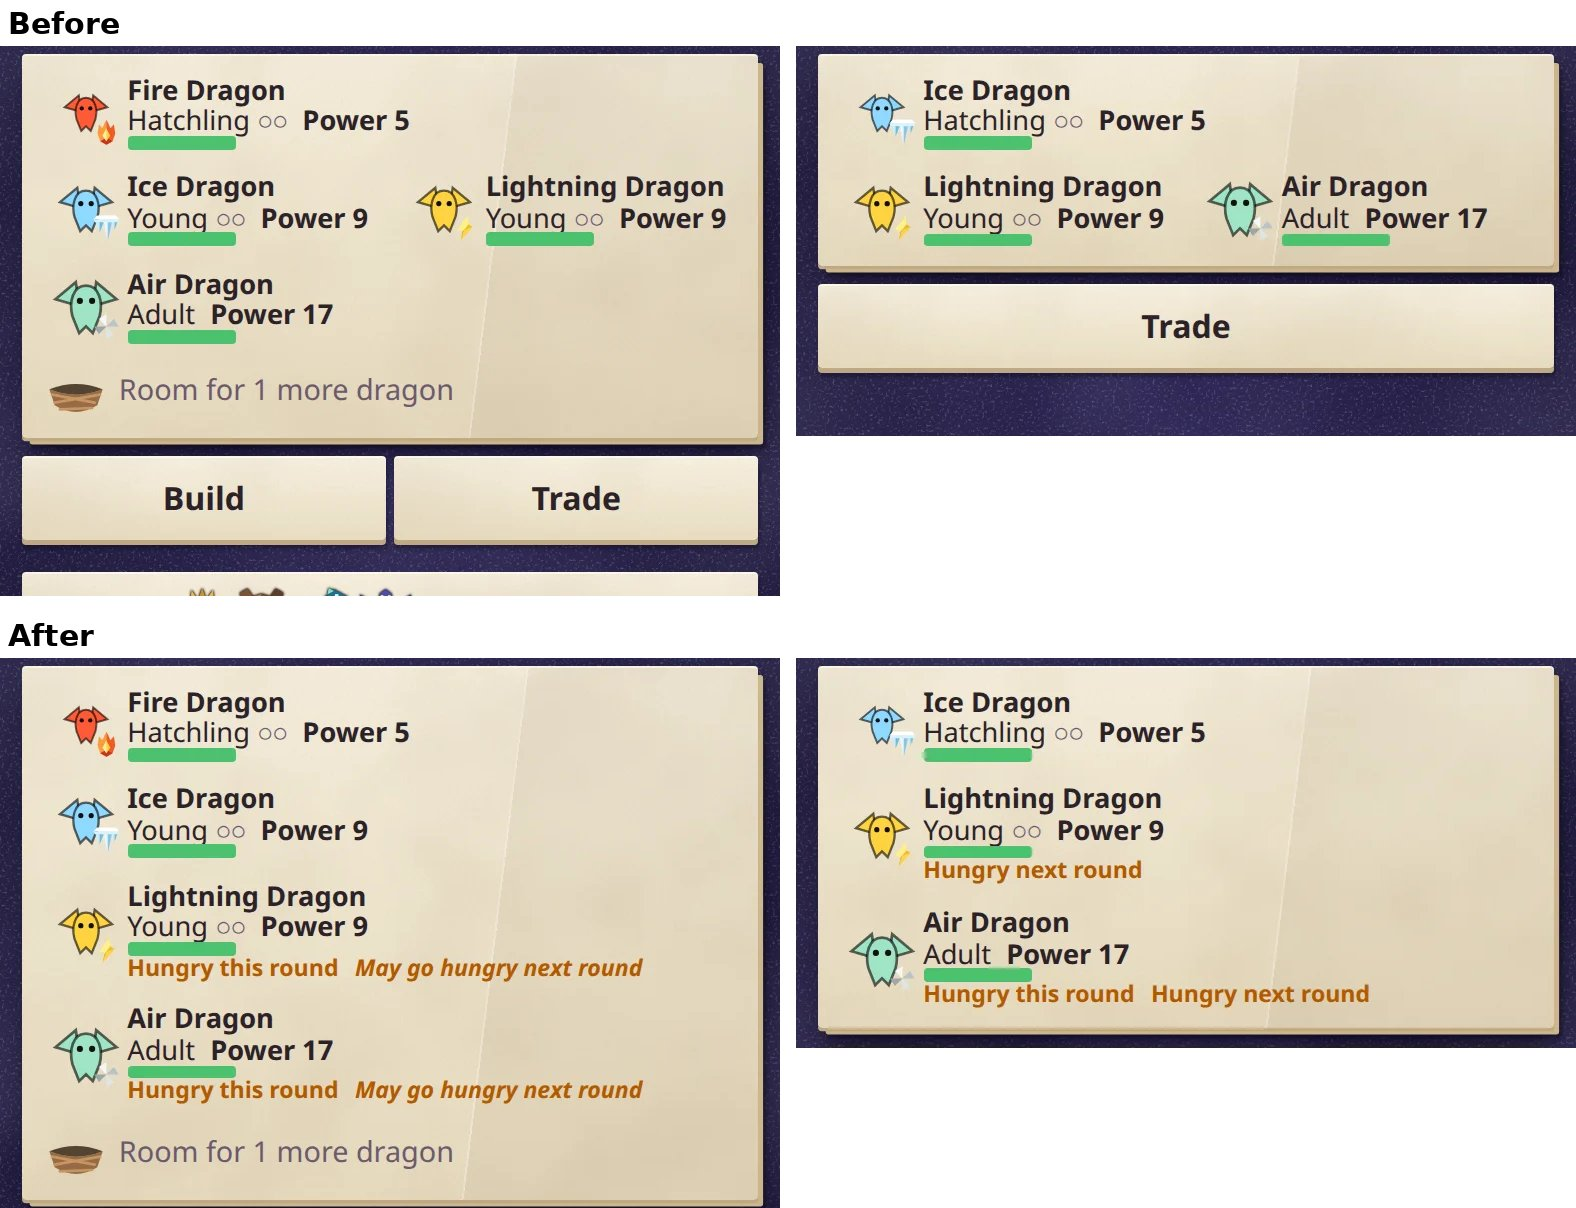
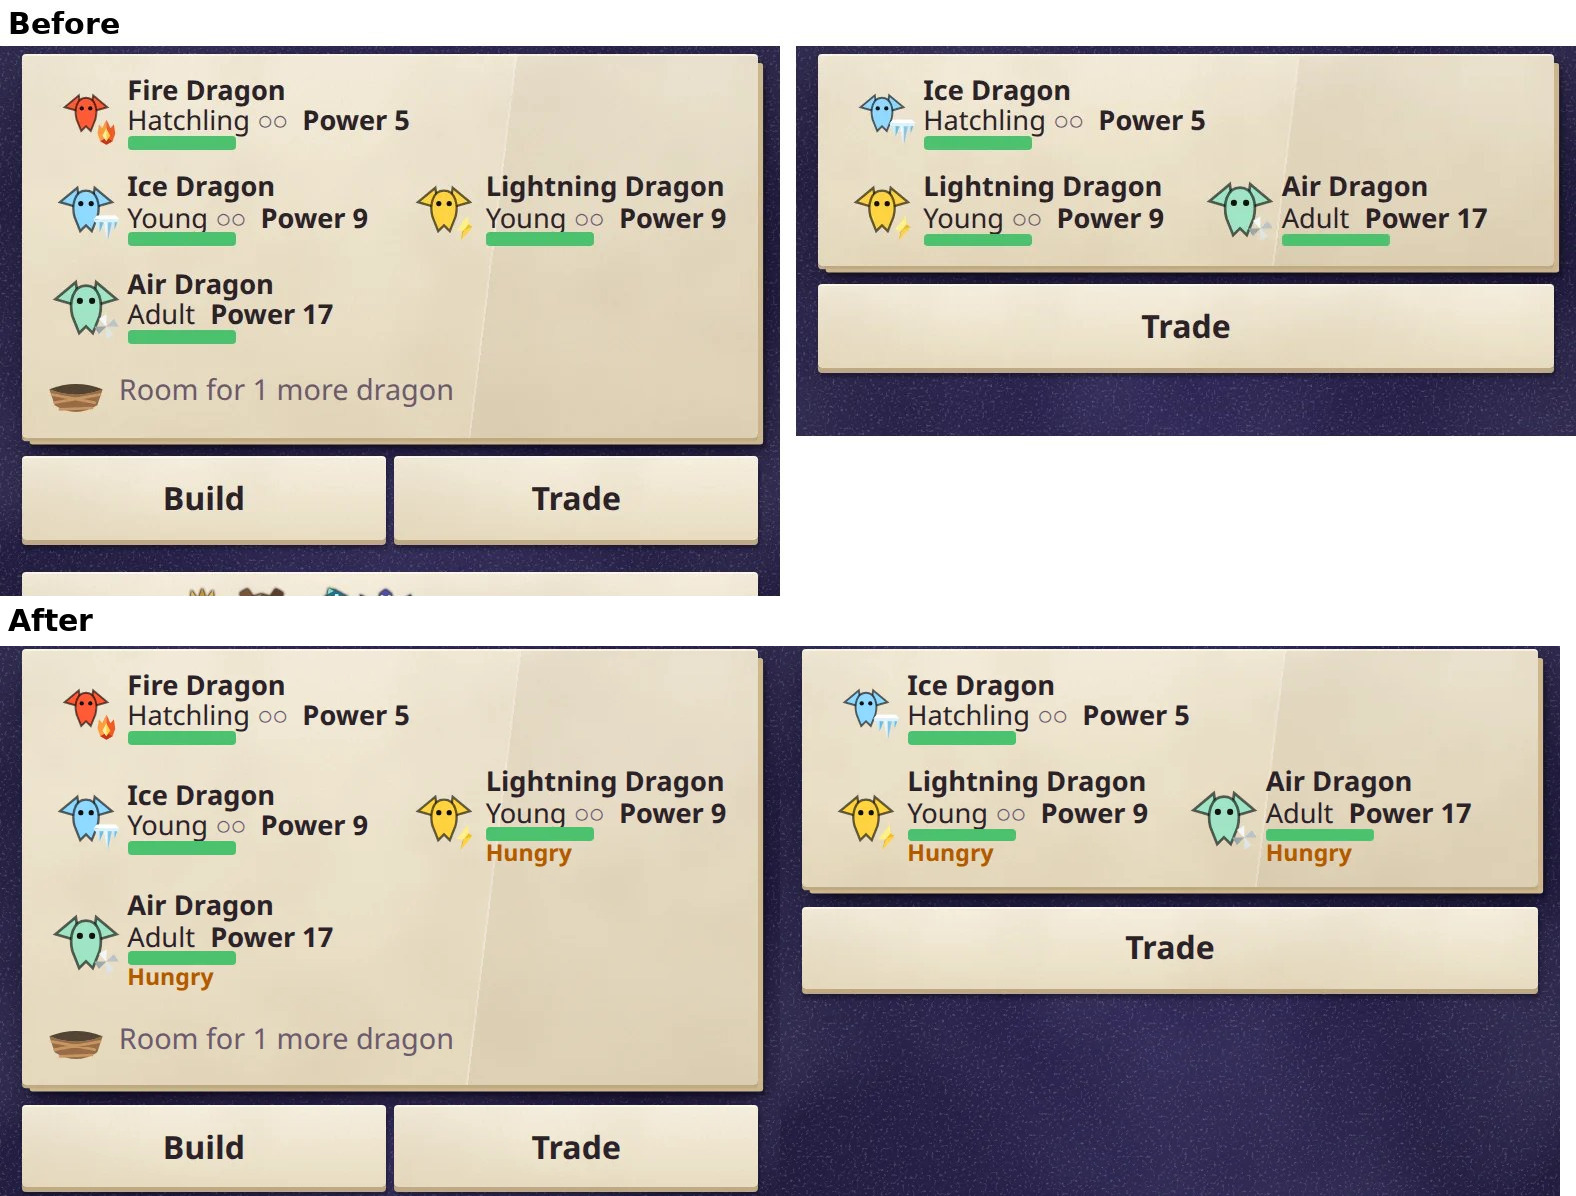
Hungry dragons: one tag, just "Hungry" (#362)
The user, reviewing #367: reduce the tags to just "Hungry". It shows when a
dragon went hungry this round (public) or, on its owner's phone, goes hungry
at the next production for sure. "May go hungry" is dropped: a tag claims
only what the rules make sure of.

Claude-Session: https://claude.ai/code/session_01MEmTqG6eNFrtQc3KbhsTSz

diff --git a/web/common.ts b/web/common.ts
@@ -376,16 +376,17 @@ export function dragonChip(d: DragonView, all: DragonView[], round: number, ahea
   return `<div class="dchip${d.status === 'out' ? ' out' : ''}" title="${esc(name)}">${dragonBadge(d, 34)}<div><b>${esc(name)}</b><span>${STAGE_LABEL[d.stage]} ${grow}${d.stage ? ` ${powerTag(d.power)}` : ''}</span>${state}${hunger ? `<span class="hunger">${hunger}</span>` : ''}</div></div>`;
 }
 
-// Whether a dragon eats (#362). "Hungry this round": it went hungry at this round's
-// production, so it didn't heal or grow; anyone can see that. `ahead`, only
-// on its owner's phone (livestock is hidden): it goes hungry at the next
-// production as things stand, for sure ('short') or unless the dice roll well.
+// Whether a dragon eats (#362), as one tag: "Hungry". Anyone can see that it
+// went hungry at this round's production, so it didn't heal or grow. `ahead`,
+// only on its owner's phone (livestock is hidden): it goes hungry at the next
+// production for sure ('short'), as things stand. 'maybe' (only if the dice
+// roll badly) gets no tag: a tag claims only what the rules make sure of.
 export type Hunger = 'short' | 'maybe';
 export function hungerTags(d: DragonView, ahead?: Hunger): string {
-  const now = d.hungry ? '<em class="st-hungry" title="It went hungry this round, so it didn\'t heal or grow.">Hungry this round</em>' : '';
-  const next = ahead === 'short' ? '<em class="st-ahead" title="You don\'t have the livestock to feed it at the next production.">Hungry next round</em>'
-    : ahead === 'maybe' ? '<em class="st-ahead maybe" title="It eats at the next production only if your livestock dice roll well.">May go hungry next round</em>' : '';
-  return now + next;
+  const next = ahead === 'short';
+  if (!d.hungry && !next) return '';
+  const why = [d.hungry ? 'It went hungry this round, so it didn\'t heal or grow.' : '', next ? 'You don\'t have the livestock to feed it at the next production.' : ''].filter(Boolean).join(' ');
+  return `<em class="st-hungry" title="${why}">Hungry</em>`;
 }
 
 // A round's income of one resource the way the table says it: "+2 +3d6",

diff --git a/web/style.css b/web/style.css
@@ -250,8 +250,7 @@ body.tv.fullscreen #fullscreen { display: none; }
 .st-out, .st-perched { font-style: normal; font-weight: 800; }
 .st-perched { color: var(--warn); }
 /* Hungry (#362): went hungry this round, or will at the next production. */
-.st-hungry, .st-ahead { font-style: normal; font-weight: 800; color: var(--warn); white-space: nowrap; }
-.st-ahead.maybe { font-weight: 600; font-style: italic; }
+.st-hungry { font-style: normal; font-weight: 800; color: var(--warn); white-space: nowrap; }
 .dchip .hunger { display: flex; flex-wrap: wrap; gap: 0 .6em; }
 .tvdragon b:has(.st-hungry) { display: flex; flex-wrap: wrap; align-items: baseline; column-gap: .4em; white-space: normal; }
 .tvdragon b .st-hungry { font-size: .8em; line-height: 1.3; }
